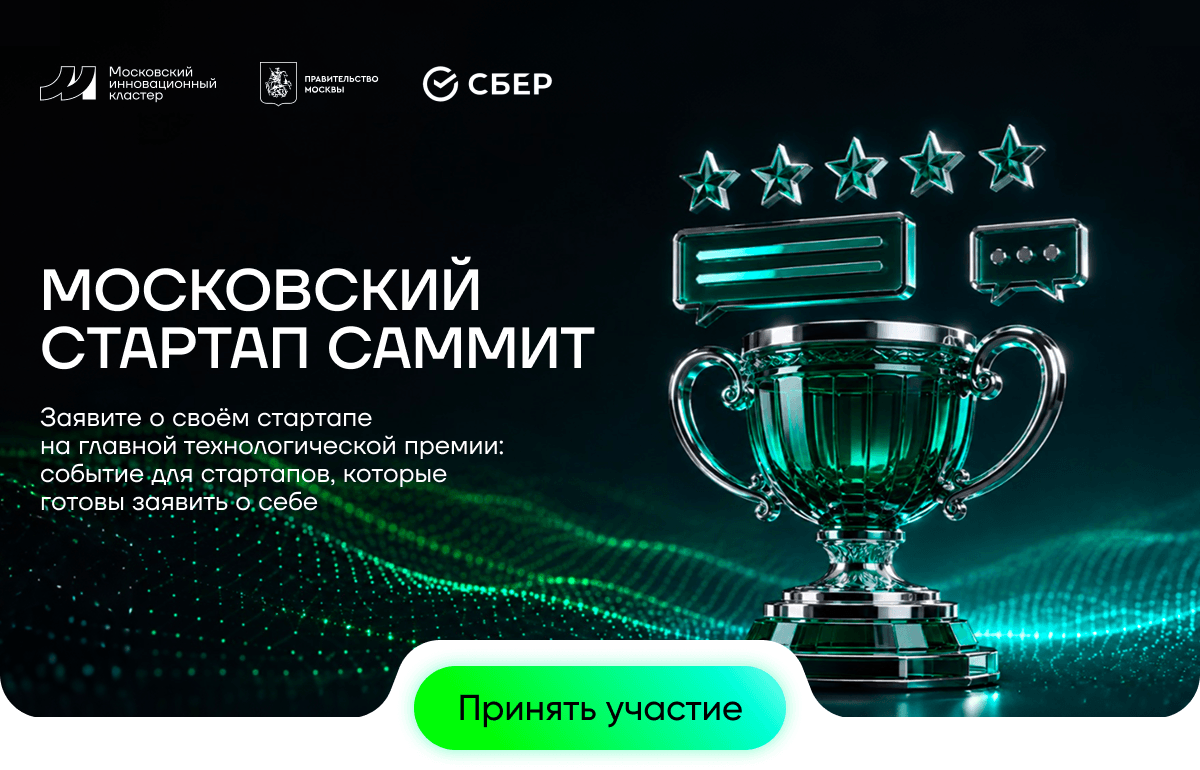
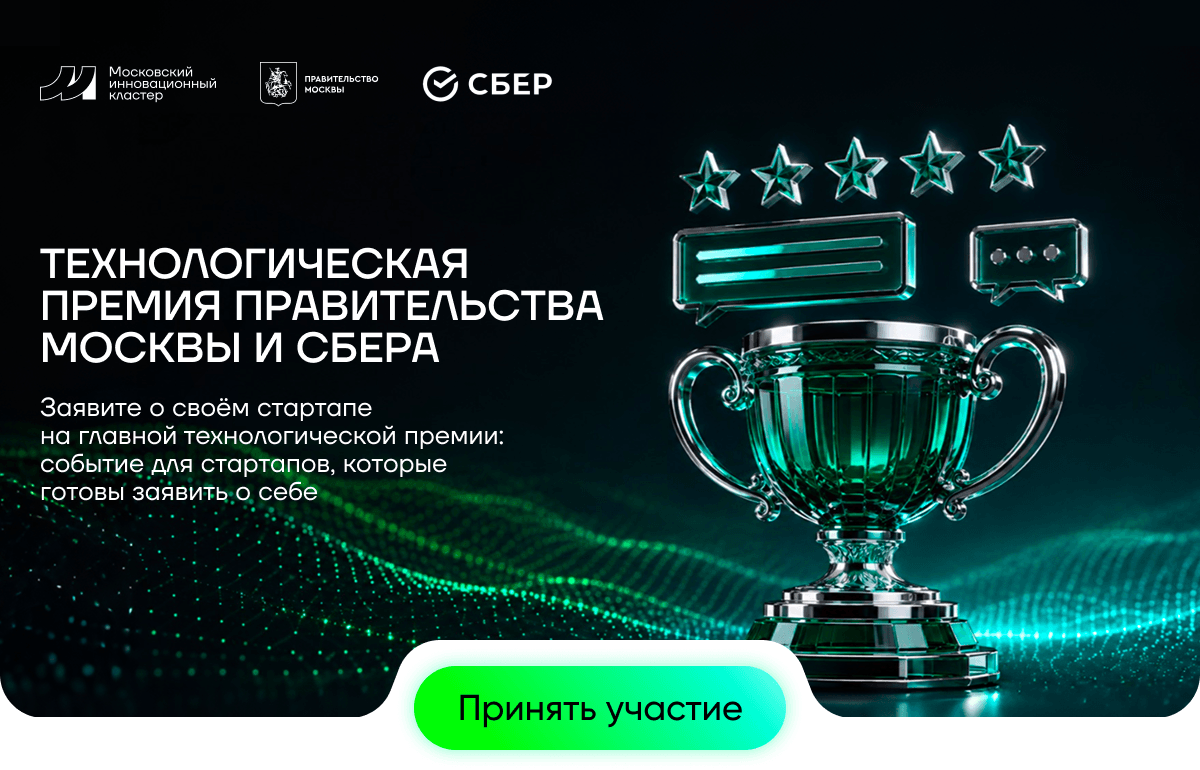
change mik-413/414/415

Changed region(s): [[0.0308, 0.3117, 0.5242, 0.6857]]

diff --git a/mik-413/Московский стартап саммит #1.html b/mik-413/Московский стартап саммит #1.html
@@ -103,7 +103,7 @@
                                         <tr>
                                             <td style="width:600px;">
                                                 <a href="https://startupsummit.ru/awards?utm_source=marketing&utm_medium=email&utm_campaign=digital&utm_content=startupsummit&utm_term=startup" target="_blank">
-                                                    <img alt="Московский стартап саммит. Заявите о своём стартапе на главной технологической премии: событие для стартапов, которые готовы заявить о себе. Нажмите здесь, чтобы принять участие" height="auto" src="https://cp.unisender.com/ru/user_file?resource=images&user_id=5608985&name=mik-413-hero.png" style="border:0;display:block;outline:none;text-decoration:none;height:auto;width:100%;font-size:13px;" width="600" />
+                                                    <img alt="Технологическая премия Правительства Москвы и Сбера. Заявите о своём стартапе на главной технологической премии: событие для стартапов, которые готовы заявить о себе. Нажмите здесь, чтобы принять участие." height="auto" src="https://cp.unisender.com/ru/user_file?resource=images&user_id=5608985&name=mik-413-hero.png" style="border:0;display:block;outline:none;text-decoration:none;height:auto;width:100%;font-size:13px;" width="600" />
                                                 </a>
                                             </td>
                                         </tr>

diff --git a/mik-415/Московский стартап саммит #3.html b/mik-415/Московский стартап саммит #3.html
@@ -103,7 +103,7 @@
                                         <tr>
                                             <td style="width:600px;">
                                                 <a href="https://startupsummit.ru/awards?chips=chips3&utm_source=marketing&utm_medium=email&utm_campaign=digital&utm_content=startupsummit&utm_term=corp" target="_blank">
-                                                    <img alt="Московский стартап саммит. Премия для корпораций, которые развивают инновации: покажите свои лучшие практики работы со стартапами. Нажмите здесь, чтобы принять участие" height="auto" src="https://cp.unisender.com/ru/user_file?resource=images&user_id=5608985&name=mik-415-hero.png" style="border:0;display:block;outline:none;text-decoration:none;height:auto;width:100%;font-size:13px;" width="600" />
+                                                    <img alt="Технологическая премия Правительства Москвы и Сбера. Заявите о своём стартапе на главной технологической премии: событие для стартапов, которые готовы заявить о себе. Нажмите здесь, чтобы принять участие." height="auto" src="https://cp.unisender.com/ru/user_file?resource=images&user_id=5608985&name=mik-415-hero.png" style="border:0;display:block;outline:none;text-decoration:none;height:auto;width:100%;font-size:13px;" width="600" />
                                                 </a>
                                             </td>
                                         </tr>

diff --git a/mik-414/Московский стартап саммит #2.html b/mik-414/Московский стартап саммит #2.html
@@ -103,7 +103,7 @@
                                         <tr>
                                             <td style="width:600px;">
                                                 <a href="https://startupsummit.ru/awards?chips=chips2&utm_source=marketing&utm_medium=email&utm_campaign=digital&utm_content=startupsummit&utm_term=investor" target="_blank">
-                                                    <img alt="Московский стартап саммит. Премия для тех, кто развивает технологический рынок: покажите вклад в развитие стартап-экосистемы. Нажмите здесь, чтобы принять участие" height="auto" src="https://cp.unisender.com/ru/user_file?resource=images&user_id=5608985&name=mik-414-hero.png" style="border:0;display:block;outline:none;text-decoration:none;height:auto;width:100%;font-size:13px;" width="600" />
+                                                    <img alt="Технологическая премия Правительства Москвы и Сбера. Заявите о своём стартапе на главной технологической премии: событие для стартапов, которые готовы заявить о себе. Нажмите здесь, чтобы принять участие." height="auto" src="https://cp.unisender.com/ru/user_file?resource=images&user_id=5608985&name=mik-414-hero.png" style="border:0;display:block;outline:none;text-decoration:none;height:auto;width:100%;font-size:13px;" width="600" />
                                                 </a>
                                             </td>
                                         </tr>
